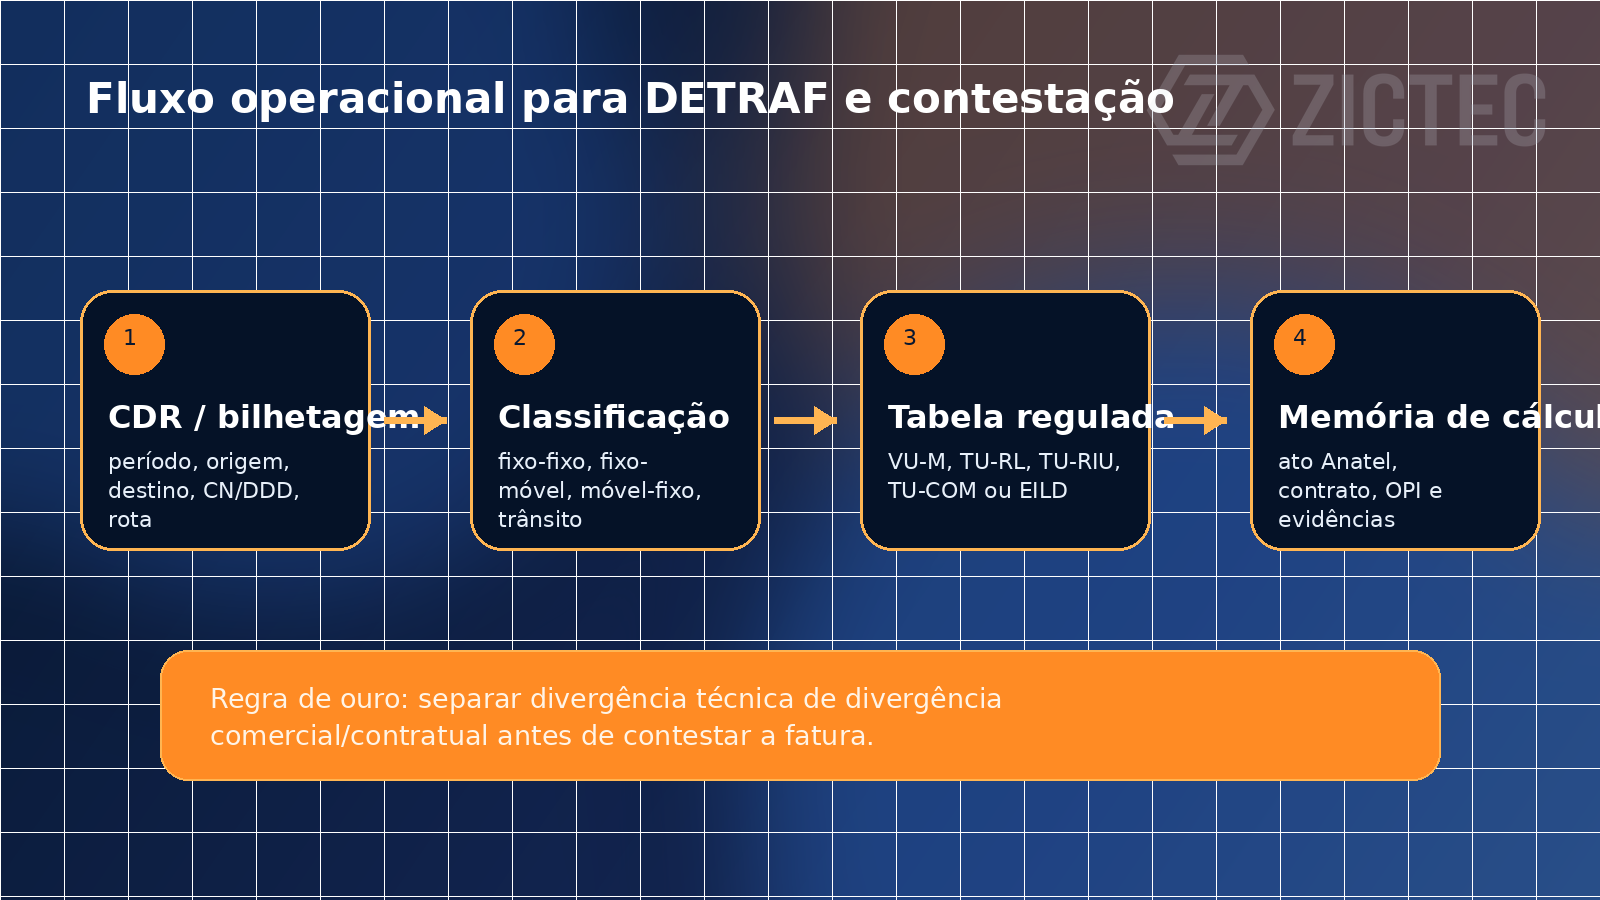
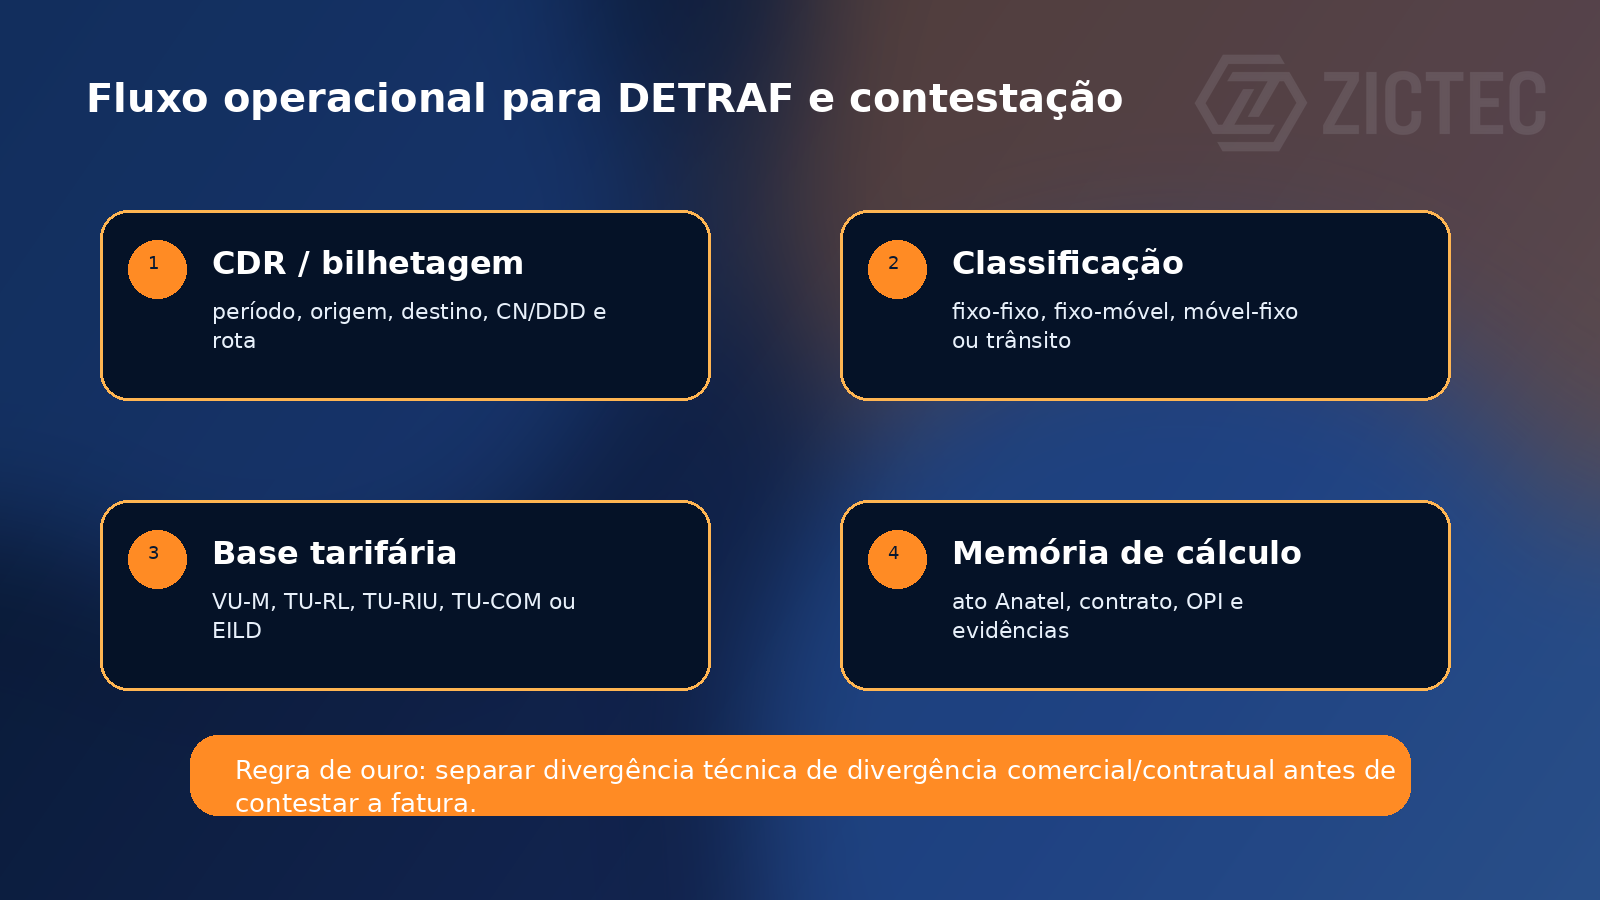
fix: polish tarifas reguladas blog visuals and TU-COM copy

diff --git a/tarifas-reguladas-anatel-interconexao-detraf-tu-rl-tu-com-vu-m.html b/tarifas-reguladas-anatel-interconexao-detraf-tu-rl-tu-com-vu-m.html
@@ -12,14 +12,13 @@
   </nav></header><main><section class="hero slim"><div class="hero-grid wrap"><div><span class="eyebrow">Regulatório Anatel / Interconexão / DETRAF</span><h1>Tarifas reguladas Anatel aplicáveis à interconexão e ao DETRAF</h1><p class="lead">Como separar VU-M, TU-RL, TU-RIU, TU-COM e EILD para conferência de faturas, contestação técnica e parametrização de sistemas de cobrança e roteamento.</p><div class="hero-actions"><a class="btn primary" href="contato.html">Falar com especialista</a><a class="btn secondary" href="blog.html">Voltar ao blog</a></div></div><div><figure class="article-figure"><img src="assets/blog/tarifas-reguladas-anatel-hero-zictec.png" alt="Tarifas reguladas Anatel para interconexão, DETRAF e redes de voz"></figure></div></div></section>
 <section><div class="wrap article-body"><div class="article-meta"><span>Anatel</span><span>DETRAF</span><span>Interconexão</span><span>STFC</span><span>VU-M</span><span>TU-RL</span><span>TU-RIU</span></div>
 <div class="toc"><b>Neste artigo</b><a href="#resumo-executivo">Resumo executivo</a><a href="#visao-geral">1. Visão geral</a><a href="#detraf-na-pratica">2. Uso prático no DETRAF</a><a href="#vum">3. VU-M — referência 2026 e 2027</a><a href="#turl">4. TU-RL — valores máximos 2026 e 2027</a><a href="#turiu">5. TU-RIU1 e TU-RIU2</a><a href="#tucom">6. TU-COM</a><a href="#eild">7. EILD</a><a href="#checklist">8. Checklist operacional</a><a href="#referencias">9. Referências oficiais</a><a href="blog.html">← Voltar para o blog</a></div>
-<div class="visual-reference-card"><b>Nota editorial</b><p>Este artigo é uma versão editorial ampliada do conteúdo técnico já publicado pela ZICTEC em 22/07/2026, reorganizada para a seção Blog e enriquecida com mapas visuais próprios. Valores monetários em reais por minuto, conforme atos oficiais da Anatel/SEI citados ao final.</p></div>
 <h2 id="resumo-executivo">Resumo executivo</h2>
 <p>Em interconexão de voz, a discussão tarifária não deve começar pelo valor cobrado na fatura. Ela começa pela classificação correta da chamada, pela relação entre as redes envolvidas e pela base regulatória ou contratual aplicável.</p>
 <p>Para a operação, a diferença entre <b>VU-M</b>, <b>TU-RL</b>, <b>TU-RIU</b>, <b>TU-COM</b> e <b>EILD</b> precisa estar clara antes de gerar DETRAF, contestar uma cobrança, configurar bilhetagem ou parametrizar regras de roteamento.</p>
 <figure class="article-figure"><img src="assets/blog/tarifas-reguladas-matriz-aplicacao-zictec.png" alt="Mapa de aplicação de VU-M, TU-RL, TU-RIU, TU-COM e EILD"><figcaption>Mapa prático para não misturar componentes regulados, contratuais e de infraestrutura.</figcaption></figure>
 <h2 id="visao-geral">1. Visão geral</h2>
 <p>Em operações entre prestadoras, especialmente STFC e SMP, a interconexão pode envolver remuneração por uso de rede, trânsito, comutação, recursos dedicados e componentes pactuados em contrato ou OPI. Para fins de conferência operacional, separe:</p>
-<ul><li><b>VU-M</b> — Valor de Uso de Rede Móvel.</li><li><b>TU-RL</b> — Tarifa de Uso de Rede Local, associada à remuneração de rede fixa local no STFC.</li><li><b>TU-RIU1 e TU-RIU2</b> — tarifas de uso de rede interurbana no STFC.</li><li><b>TU-COM</b> — Tarifa de Uso de Comutação, relacionada à função de comutação/trânsito local conforme regulamentação e instrumentos aplicáveis.</li><li><b>EILD</b> — Exploração Industrial de Linha Dedicada; não é DETRAF de chamada, mas pode compor custo de infraestrutura de interconexão.</li></ul>
+<ul><li><b>VU-M</b> — Valor de Uso de Rede Móvel.</li><li><b>TU-RL</b> — Tarifa de Uso de Rede Local, associada à remuneração de rede fixa local no STFC.</li><li><b>TU-RIU1 e TU-RIU2</b> — tarifas de uso de rede interurbana no STFC.</li><li><b>TU-COM</b> — Tarifa de Uso de Comutação; pela regra regulatória aplicável, seu valor corresponde à metade da TU-RL vigente.</li><li><b>EILD</b> — Exploração Industrial de Linha Dedicada; não é DETRAF de chamada, mas pode compor custo de infraestrutura de interconexão.</li></ul>
 <h2 id="detraf-na-pratica">2. Uso prático no DETRAF</h2>
 <p>Na prática, a confiabilidade do DETRAF depende menos de uma “tabela única” e mais da rastreabilidade da memória de cálculo. O processo recomendado é:</p>
 <ol><li>identificar tipo de chamada e redes envolvidas — STFC local, STFC interurbano, SMP, trânsito ou comutação;</li><li>separar tráfego fixo-fixo, fixo-móvel, móvel-fixo e trânsito;</li><li>aplicar a tabela regulada correta apenas quando a relação estiver sujeita ao valor regulado ou referência aplicável;</li><li>preservar evidências: CDRs, bilhetagem, matriz de áreas, CN/DDD, rota, contrato, OPI e ato regulatório usado como base;</li><li>em divergência de fatura, citar o ato Anatel/SEI e a tabela/ano correspondente.</li></ol>
@@ -33,14 +32,15 @@
 <h2 id="turiu">5. TU-RIU1 e TU-RIU2</h2>
 <p>O Ato nº 3247/2023 também publica valores máximos para <b>TU-RIU1</b> e <b>TU-RIU2</b>, usados em remuneração de rede interurbana no STFC. Para cálculo operacional, os anexos devem ser consultados diretamente no ato, preservando o ano tarifário, a prestadora/área e o cenário de chamada que justificou o enquadramento.</p>
 <h2 id="tucom">6. TU-COM</h2>
-<p>A <b>TU-COM — Tarifa de Uso de Comutação</b> é prevista na regulamentação do STFC e está associada à função de comutação/trânsito local. O ponto operacional é importante: nos atos tarifários oficiais localizados para o ciclo 2024–2027, o Ato nº 3247/2023 traz anexos para TU-RL, TU-RIU1 e TU-RIU2; não foi identificada nesse ato uma tabela pública equivalente de TU-COM 2026/2027.</p>
-<p>Para uso operacional, a TU-COM deve ser validada contra regulamentação vigente, contrato de interconexão e OPI/oferta pública da prestadora envolvida. Em disputa, não trate TU-COM como sinônimo automático de TU-RL ou TU-RIU.</p>
+<p>A <b>TU-COM — Tarifa de Uso de Comutação</b> remunera, por unidade de tempo, o uso da comutação e/ou da rede local de uma prestadora STFC quando utilizada para encaminhamento de chamadas entre outras prestadoras que não possuam meios próprios para a interconexão.</p>
+<p>Para cálculo operacional, a regra deve ser tratada de forma objetiva: <b>o valor da TU-COM é igual à metade do valor da TU-RL vigente</b>. Essa relação consta no art. 15, § 5º, da Resolução Anatel nº 639/2014, com redação atualizada pela Resolução Anatel nº 768/2024.</p>
+<p>Em faturas, DETRAF e contestação, a TU-COM deve ser demonstrada na memória de cálculo a partir da TU-RL aplicável ao ano, prestadora/área e cenário da chamada, preservando contrato de interconexão, OPI e evidências de rota.</p>
 <h2 id="eild">7. EILD</h2>
 <p>A <b>EILD</b> não é uma tarifa de DETRAF de chamadas. Ela pode, porém, aparecer no custo de interconexão ou infraestrutura entre prestadoras. A referência tarifária 2024–2027 consta no <a href="https://sei.anatel.gov.br/sei/modulos/pesquisa/md_pesq_documento_consulta_externa.php?8-74Kn1tDR89f1Q7RjX8EYU46IzCFD26Q9Xx5QNDbqZrjdpok1A4f-YRSb2UYJOM_dEhq1XvFxBVqFboVxKLnB24Su4A_fVeVe-WbZ7Gvy2Rv2mUl-PfkwoIFLOVC_Wg" target="_blank" rel="noopener">Ato nº 3248/2023 — EILD 2024–2027</a>.</p>
 <div class="visual-reference-card"><b>Separação essencial</b><p>DETRAF de chamadas, remuneração de rede e custo de enlace dedicado podem aparecer juntos no relacionamento entre prestadoras, mas não devem ser conciliados como se fossem o mesmo componente.</p></div>
 <h2 id="checklist">8. Checklist para conferência de faturas e disputas</h2>
 <ul><li>confirmar período de tráfego e ano tarifário aplicável;</li><li>validar origem, destino, CN/DDD, área local e região;</li><li>identificar se a chamada é STFC, SMP, interurbana ou trânsito;</li><li>conferir se o item cobrado é VU-M, TU-RL, TU-RIU, TU-COM, EILD ou outro componente contratual;</li><li>cruzar CDRs com matriz de áreas, rotas e regras de bilhetagem;</li><li>citar o ato oficial da Anatel/SEI na memória de cálculo;</li><li>separar divergência técnica de divergência comercial/contratual.</li></ul>
 <h2 id="referencias">9. Referências oficiais</h2>
-<ul><li><a href="https://sei.anatel.gov.br/sei/modulos/pesquisa/md_pesq_documento_consulta_externa.php?8-74Kn1tDR89f1Q7RjX8EYU46IzCFD26Q9Xx5QNDbqbQz0xz9k58ys1iG8mr9HtNZkmkReBKq7vU29dj09WxqWHjbQWz8h63mu5bcBW7w8uklUJhTnEmR4-vEfcCYNWN" target="_blank" rel="noopener">Ato nº 3246/2023 — VU-M 2024–2027</a></li><li><a href="https://sei.anatel.gov.br/sei/modulos/pesquisa/md_pesq_documento_consulta_externa.php?8-74Kn1tDR89f1Q7RjX8EYU46IzCFD26Q9Xx5QNDbqZtRPN1GR29cDNNv4gMp0V9JVygSKcPCzBUjtw-5epyl7Ncjl7tiEiUYUlXFX_iKX0f9gh4u4wD1hCp0hntadRh" target="_blank" rel="noopener">Ato nº 3247/2023 — TU-RL, TU-RIU1 e TU-RIU2 2024–2027</a></li><li><a href="https://sei.anatel.gov.br/sei/modulos/pesquisa/md_pesq_documento_consulta_externa.php?8-74Kn1tDR89f1Q7RjX8EYU46IzCFD26Q9Xx5QNDbqZrjdpok1A4f-YRSb2UYJOM_dEhq1XvFxBVqFboVxKLnB24Su4A_fVeVe-WbZ7Gvy2Rv2mUl-PfkwoIFLOVC_Wg" target="_blank" rel="noopener">Ato nº 3248/2023 — EILD 2024–2027</a></li><li><a href="https://informacoes.anatel.gov.br/legislacao/resolucoes/2012/374-resolucao-588" target="_blank" rel="noopener">Resolução Anatel nº 588/2012 — Regulamento de Remuneração pelo Uso de Redes STFC</a></li><li><a href="https://informacoes.anatel.gov.br/legislacao/resolucoes/2024/2112-resolucao-anatel-768" target="_blank" rel="noopener">Resolução Anatel nº 768/2024 — alterações regulatórias relacionadas ao STFC</a></li></ul>
+<ul><li><a href="https://sei.anatel.gov.br/sei/modulos/pesquisa/md_pesq_documento_consulta_externa.php?8-74Kn1tDR89f1Q7RjX8EYU46IzCFD26Q9Xx5QNDbqbQz0xz9k58ys1iG8mr9HtNZkmkReBKq7vU29dj09WxqWHjbQWz8h63mu5bcBW7w8uklUJhTnEmR4-vEfcCYNWN" target="_blank" rel="noopener">Ato nº 3246/2023 — VU-M 2024–2027</a></li><li><a href="https://sei.anatel.gov.br/sei/modulos/pesquisa/md_pesq_documento_consulta_externa.php?8-74Kn1tDR89f1Q7RjX8EYU46IzCFD26Q9Xx5QNDbqZtRPN1GR29cDNNv4gMp0V9JVygSKcPCzBUjtw-5epyl7Ncjl7tiEiUYUlXFX_iKX0f9gh4u4wD1hCp0hntadRh" target="_blank" rel="noopener">Ato nº 3247/2023 — TU-RL, TU-RIU1 e TU-RIU2 2024–2027</a></li><li><a href="https://sei.anatel.gov.br/sei/modulos/pesquisa/md_pesq_documento_consulta_externa.php?8-74Kn1tDR89f1Q7RjX8EYU46IzCFD26Q9Xx5QNDbqZrjdpok1A4f-YRSb2UYJOM_dEhq1XvFxBVqFboVxKLnB24Su4A_fVeVe-WbZ7Gvy2Rv2mUl-PfkwoIFLOVC_Wg" target="_blank" rel="noopener">Ato nº 3248/2023 — EILD 2024–2027</a></li><li><a href="https://informacoes.anatel.gov.br/legislacao/resolucoes/2014/781-resolucao-639" target="_blank" rel="noopener">Resolução Anatel nº 639/2014 — Norma para Fixação dos Valores Máximos das Tarifas de Uso de Rede Fixa, de EILD e de Exploração Industrial de Roaming Nacional</a></li><li><a href="https://informacoes.anatel.gov.br/legislacao/resolucoes/2024/2112-resolucao-anatel-768" target="_blank" rel="noopener">Resolução Anatel nº 768/2024 — atualização do prazo/modelos de custo no art. 15 da Resolução nº 639/2014</a></li></ul>
 <p><b>Observação:</b> este artigo é um resumo técnico-operacional. Em caso de disputa formal, use sempre o ato oficial vigente, contrato de interconexão, OPI da prestadora e memória de cálculo auditável.</p>
 <div id="contato"></div></div></section><section><div class="wrap"><div class="cta"><div><h2>Precisa revisar DETRAF, faturas ou memória de cálculo?</h2><p>A ZICTEC apoia prestadoras e operações de voz em interconexão, bilhetagem, auditoria de CDRs, conferência regulatória e documentação técnica para contestação.</p></div><div class="cta-actions"><a class="btn secondary" href="https://www.calendly.com/zictec/reuniao" target="_blank" rel="noopener">Agendar diagnóstico</a><a class="btn secondary" href="https://wa.me/554732300435?text=Ol%C3%A1%2C%20preciso%20de%20apoio%20para%20revisar%20DETRAF%2C%20interconex%C3%A3o%20ou%20faturas%20reguladas." target="_blank" rel="noopener">Falar no WhatsApp</a><a class="btn secondary" href="regulatorio-anatel.html">Ver regulatório Anatel</a></div></div></div></section></main><footer class="footer"><div class="wrap"><div><b>ZICTEC</b><br>Consultoria técnica e regulatória para operações de voz, STFC, SIP/SBC e Origem Verificada.</div><div>suporte@zictec.com.br • +55 47 3230-0435</div></div></footer></body></html>
